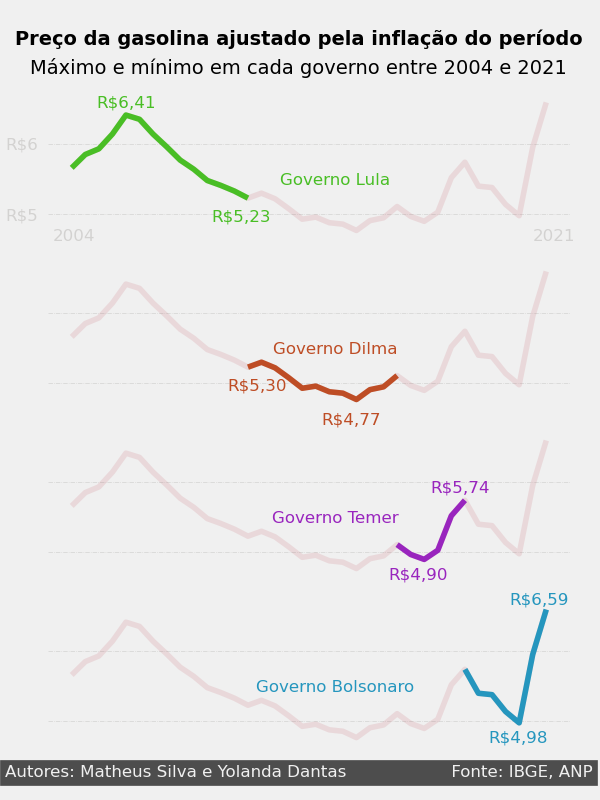
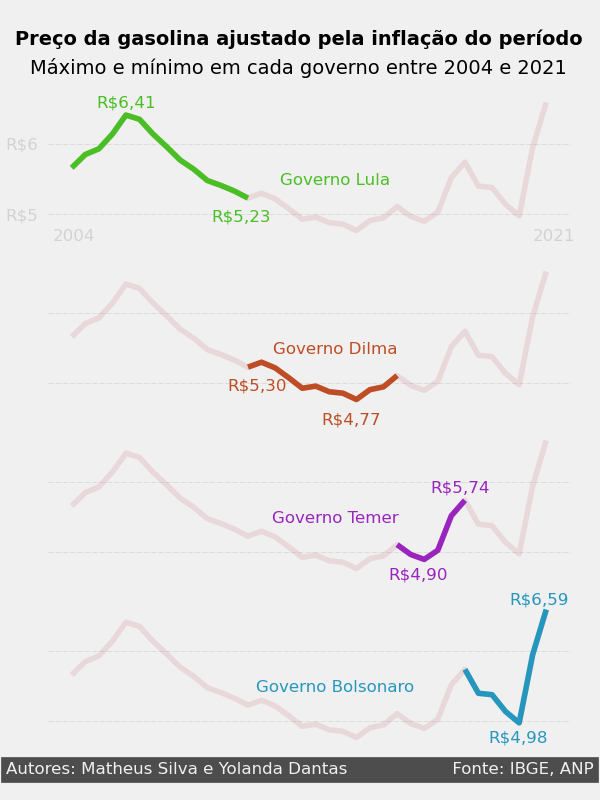
edit requirements

Changed region(s): [[0.0, 0.9375, 1.0, 1.0]]

diff --git a/Projeto_01/app.py b/Projeto_01/app.py
@@ -114,7 +114,7 @@ def plot_inflacao_presidentes():
                                   (inflacao_gasolina["Tempo"] <= "2021-12-01")]
 
     # Setting figure size
-    plt.figure(figsize=(8,6))
+    fig = plt.figure(figsize=(8,5))
 
     # Plotting the inflaction variation by Presidents
     plt.plot(lula["Tempo"], lula["ipca_acumulado"],
@@ -129,17 +129,18 @@ def plot_inflacao_presidentes():
     # habilitando as legendas
     plt.legend()
     # definindo titulo e sub-titulo
-    plt.text(731516.0, 60, ""*22+"""Variação da inflação acumulada (2006-2021)""",
-             fontsize=14, weight="bold")
-    plt.text(731000.0, 55,
-             "Governos Lula(2004-2010), Dilma(2011-2016.1), Temer(2016.2-2018)\
-              e Bolsonaro(2019-2021)",
-             fontsize=10)
+    plt.text(0.2, 0.98, "Variação da inflação acumulada (2006-2021)",
+             fontsize=14, weight="bold", ha='left', va='top',
+             transform=fig.transFigure)
+    plt.text(0.07, 0.94, "Governos Lula (2004-2010), Dilma (2011-2016.1), Temer (2016.2-2018) "\
+             "e Bolsonaro (2019-2021)", fontsize=10,
+             ha='left', va='top', transform=fig.transFigure)
     #definindo footer
-    plt.text(731000.0, -21, "Autoria: Yolanda" + " "*110 + "Fonte: IBGE",
-             color="#f0f0f0",
-             backgroundcolor="#4d4d4d",
-             size=11)
+    plt.text(0.035, 0.01, "Autoria: Matheus Silva e Yolanda Dantas" + " "*70 + "Fonte: IBGE",
+             color="#f0f0f0", backgroundcolor="#4d4d4d", size=11,
+             transform=fig.transFigure)
+
+    fig.tight_layout()
 
     plt.savefig("imagens/inflacao_gasolina.png", format="png")
 
@@ -152,19 +153,19 @@ def plot_gasolina_ajustada_presidentes():
     fig, (ax1, ax2, ax3, ax4) = plt.subplots(nrows=4, ncols=1, figsize=(6,8))
     axes = [ax1, ax2, ax3, ax4]
 
-    for ax in axes:
-        ax.plot(precos_atualizados["Tempo"], precos_atualizados["Preco_Atualizado"],
+    for axis in axes:
+        axis.plot(precos_atualizados["Tempo"], precos_atualizados["Preco_Atualizado"],
                 color="#af0b1e", alpha=0.1)
-        ax.set_yticklabels([])
-        ax.set_xticklabels([])
-        ax.axhline(5, xmin=0.0, xmax=1, color="#625d56", linewidth=(0.5),
+        axis.set_yticklabels([])
+        axis.set_xticklabels([])
+        axis.axhline(5, xmin=0.0, xmax=1, color="#625d56", linewidth=(0.5),
                    alpha=0.2, linestyle="dashdot")
-        ax.axhline(6, xmin=0.0, xmax=1, color="#625d56", linewidth=(0.5),
+        axis.axhline(6, xmin=0.0, xmax=1, color="#625d56", linewidth=(0.5),
                    alpha=0.2, linestyle="dashdot")
-        ax.grid(False)
-        ax.tick_params(bottom=0, left=0)
+        axis.grid(False)
+        axis.tick_params(bottom=0, left=0)
         for location in ["left", "right", "top", "bottom"]:
-            ax.spines[location].set_visible(False)
+            axis.spines[location].set_visible(False)
 
     lula_2 = precos_atualizados[(precos_atualizados["Tempo"] >= "2003-01-01") &
                                 (precos_atualizados["Tempo"] <= "2010-12-01")]
@@ -228,7 +229,7 @@ def plot_gasolina_ajustada_presidentes():
              horizontalalignment="center", verticalalignment="center", transform=ax1.transAxes)
 
     # Credits
-    ax4.text(0.48, -0.2, "Autores: Matheus Silva e Yolanda Dantas" + " "*20 + "Fonte: IBGE, ANP",
+    ax4.text(0.482, -0.18, "Autores: Matheus Silva e Yolanda Dantas" + " "*20 + "Fonte: IBGE, ANP",
              horizontalalignment="center", verticalalignment="center",
              transform=ax4.transAxes, color = "#f0f0f0", backgroundcolor = "#4d4d4d", size=12)
 
@@ -240,7 +241,7 @@ def plot_meta_inflacao():
     """Plota um gráfico line chart da inflação acumulada
     e preços da gasolina usando matplotlib.
     """
-    fig, ax1 = plt.subplots(figsize=(10,6))
+    fig, ax1 = plt.subplots(figsize=(9.8,6))
 
     ax1.plot(inflacao_gasolina["Tempo"], inflacao_gasolina["ipca_acumulado"], color="#db4b26")
     ax1.yaxis.set_ticklabels([])
@@ -286,7 +287,7 @@ def plot_meta_inflacao():
              horizontalalignment="center", verticalalignment="center", transform=ax1.transAxes)
 
     # Credits
-    ax2.text(0.48, -0.1, "Autores: Matheus Silva e Yolanda Dantas" +
+    ax2.text(0.48, -0.17, "Autores: Matheus Silva e Yolanda Dantas" +
              " "*90 + "Fonte: IBGE, ANP", horizontalalignment="center",
              verticalalignment="center", transform=ax1.transAxes,
              color = "#f0f0f0", backgroundcolor = "#4d4d4d", size=12)
